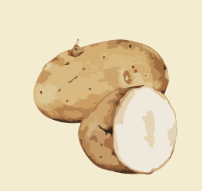
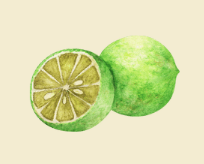
Edited modal in EditProfile.php
Added new profile pictures, removed the flowers and edited size of modal in EditProfile.php

diff --git a/pages/ProfileEdit.php b/pages/ProfileEdit.php
@@ -176,10 +176,10 @@
            
                 <!-- Modal -->
                 <div class="modal fade" id="exampleModal" tabindex="-1" role="dialog" aria-labelledby="exampleModalLabel" aria-hidden="true">
-                    <div class="modal-dialog" role="document">
+                    <div class="modal-dialog modal-lg" role="document">
                         <div class="modal-content">
                             <div class="modal-header">
-                                <h5 class="modal-title" id="exampleModalLabel">Choose a Profile Photo</h5>
+                                <h5 class="modal-title" id="exampleModalLabel">Choose your new Profile Photo</h5>
                                 <button type="button" class="close" data-dismiss="modal" aria-label="Close">
                                     <span aria-hidden="true">&times;</span>
                                 </button>
@@ -194,6 +194,14 @@
                                     <img src="ProfileImage\6.png" style="margin-bottom:10px" onclick="updateProfilePhoto(this.src)" data-dismiss="modal">
                                     <img src="ProfileImage\7.png" style="margin-bottom:10px" onclick="updateProfilePhoto(this.src)" data-dismiss="modal">
                                     <img src="ProfileImage\8.png" style="margin-bottom:10px" onclick="updateProfilePhoto(this.src)" data-dismiss="modal">
+                                    <img src="ProfileImage\9.png" style="margin-bottom:10px" onclick="updateProfilePhoto(this.src)" data-dismiss="modal">
+                                    <img src="ProfileImage\10.png" style="margin-bottom:10px" onclick="updateProfilePhoto(this.src)" data-dismiss="modal">
+                                    <img src="ProfileImage\11.png" style="margin-bottom:10px" onclick="updateProfilePhoto(this.src)" data-dismiss="modal">
+                                    <img src="ProfileImage\12.png" style="margin-bottom:10px" onclick="updateProfilePhoto(this.src)" data-dismiss="modal">
+                                    <img src="ProfileImage\13.png" style="margin-bottom:10px" onclick="updateProfilePhoto(this.src)" data-dismiss="modal">
+                                    <img src="ProfileImage\14.png" style="margin-bottom:10px" onclick="updateProfilePhoto(this.src)" data-dismiss="modal">
+                                    <img src="ProfileImage\15.png" style="margin-bottom:10px" onclick="updateProfilePhoto(this.src)" data-dismiss="modal">
+                                    <img src="ProfileImage\16.png" style="margin-bottom:10px" onclick="updateProfilePhoto(this.src)" data-dismiss="modal">
                                 </div>
                             </div>
                             <div class="modal-footer">
